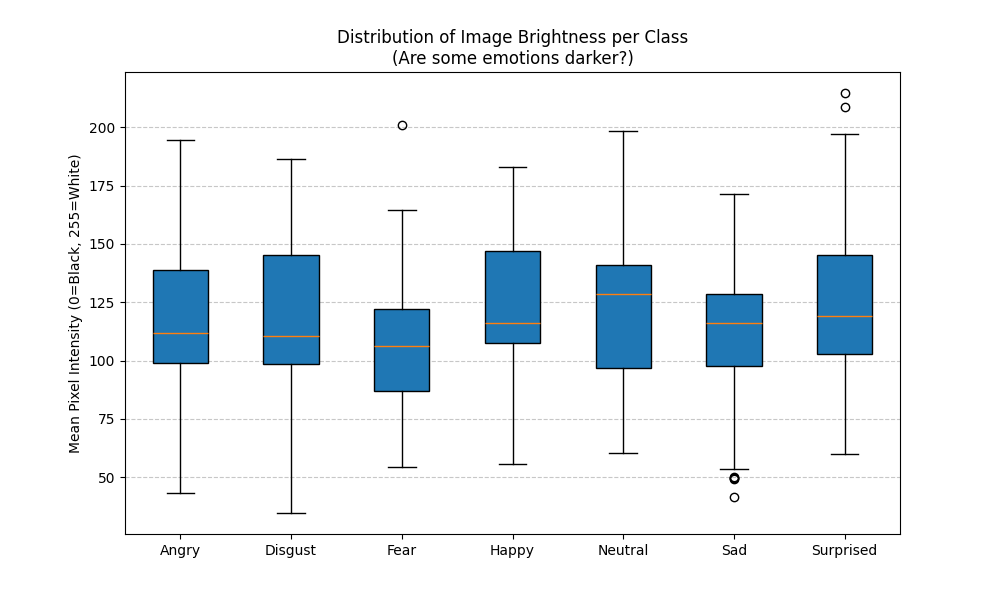
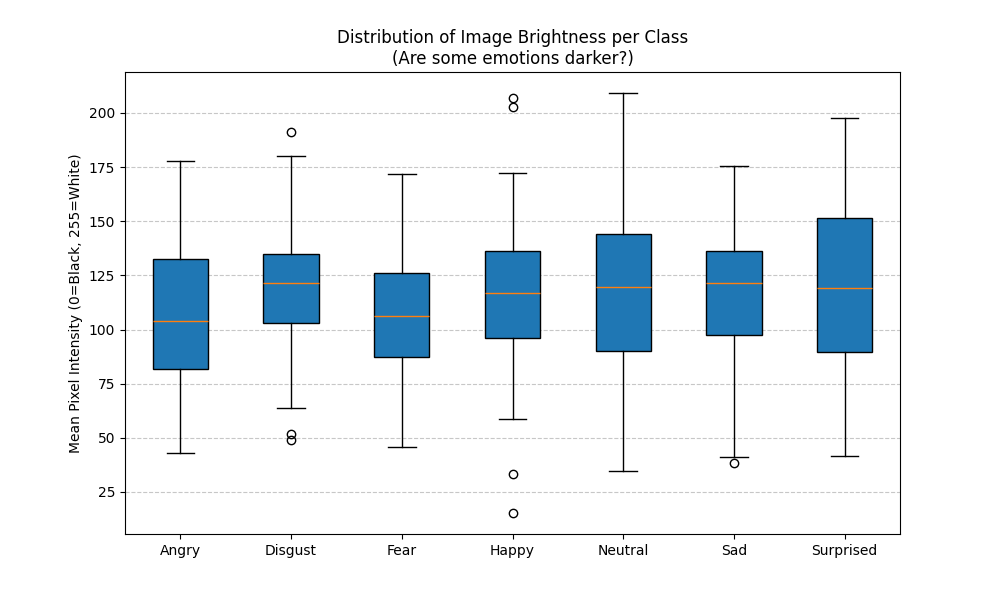
updated images

diff --git a/src/analysis/direct_eda_repot.py b/src/analysis/direct_eda_repot.py
@@ -161,6 +161,39 @@ def main():
         
         mean_intensities_per_class.append(class_means)
 
+    for i, cat in enumerate(CATEGORIES):
+        # Convertim lista de medii (0-255) în array numpy
+        raw_values = np.array(mean_intensities_per_class[i])
+        
+        if len(raw_values) == 0:
+            print(f"\n--- {cat}: Fără date ---")
+            continue
+
+        # 1. Normalizare la 0-1
+        norm_values = raw_values / 255.0
+
+        # 2. Calcul Quartile și IQR
+        q1 = np.percentile(norm_values, 25)
+        q3 = np.percentile(norm_values, 75)
+        iqr = q3 - q1
+
+        # 3. Calcul Limite (metoda standard Tukey: 1.5 * IQR)
+        lower_limit = q1 - 1.5 * iqr
+        upper_limit = q3 + 1.5 * iqr
+
+        # 4. Identificare Outlieri
+        # Outlieri întunecați: valori strict mai mici decât limita inferioară
+        dark_outliers = norm_values[norm_values < lower_limit]
+        # Outlieri luminoși: valori strict mai mari decât limita superioară
+        bright_outliers = norm_values[norm_values > upper_limit]
+
+        print(f"\nCategoria: {cat}")
+        print(f"  * IQR (Interquartile Range): {iqr:.4f}")
+        print(f"  * Limita inferioară (Prea întunecat): {lower_limit:.4f}")
+        print(f"  * Limita superioară (Prea luminos): {upper_limit:.4f}")
+        print(f"  * Imagini outlier întunecate: {len(dark_outliers)}")
+        print(f"  * Imagini outlier luminoase: {len(bright_outliers)}")
+
     # 1. Boxplot (Brightness per Class)
     plt.figure(figsize=(10, 6))
     plt.boxplot(mean_intensities_per_class, labels=CATEGORIES, patch_artist=True)
@@ -185,9 +218,23 @@ def main():
     median_val = np.median(pixel_intensities)
     std_val = np.std(pixel_intensities)
 
-    print(f"Medie: {mean_val:.2f}")
-    print(f"Mediană: {median_val:.2f}")
-    print(f"Deviație standard: {std_val:.2f}")
+    print(f"Medie: {mean_val/255.0:.2f}")
+    print(f"Mediană: {median_val/255.0:.2f}")
+    print(f"Deviație standard: {std_val/255.0:.2f}")
+    
+    pixels_np = np.array(pixel_intensities)
+
+    # Calculate raw statistics (0-255 range)
+    min_raw = np.min(pixels_np)
+    max_raw = np.max(pixels_np)
+    q1_raw = np.percentile(pixels_np, 25)
+    q3_raw = np.percentile(pixels_np, 75)
+
+    print("\n--- Statistici Detaliate (Normalizate 0-1) ---")
+    # We divide by 255.0 to get the 0.0 - 1.0 range you asked for
+    print(f"* Min: {min_raw:.1f}, Max: {max_raw:.1f}")
+    print(f"* Q1 (25%): {q1_raw:.4f}")
+    print(f"* Q3 (75%): {q3_raw:.4f}")
 
     # Opțional: Adăugăm linii verticale pe grafic pentru a le vizualiza
     plt.axvline(mean_val, color='red', linestyle='dashed', linewidth=2, label=f'Medie: {mean_val:.1f}')
